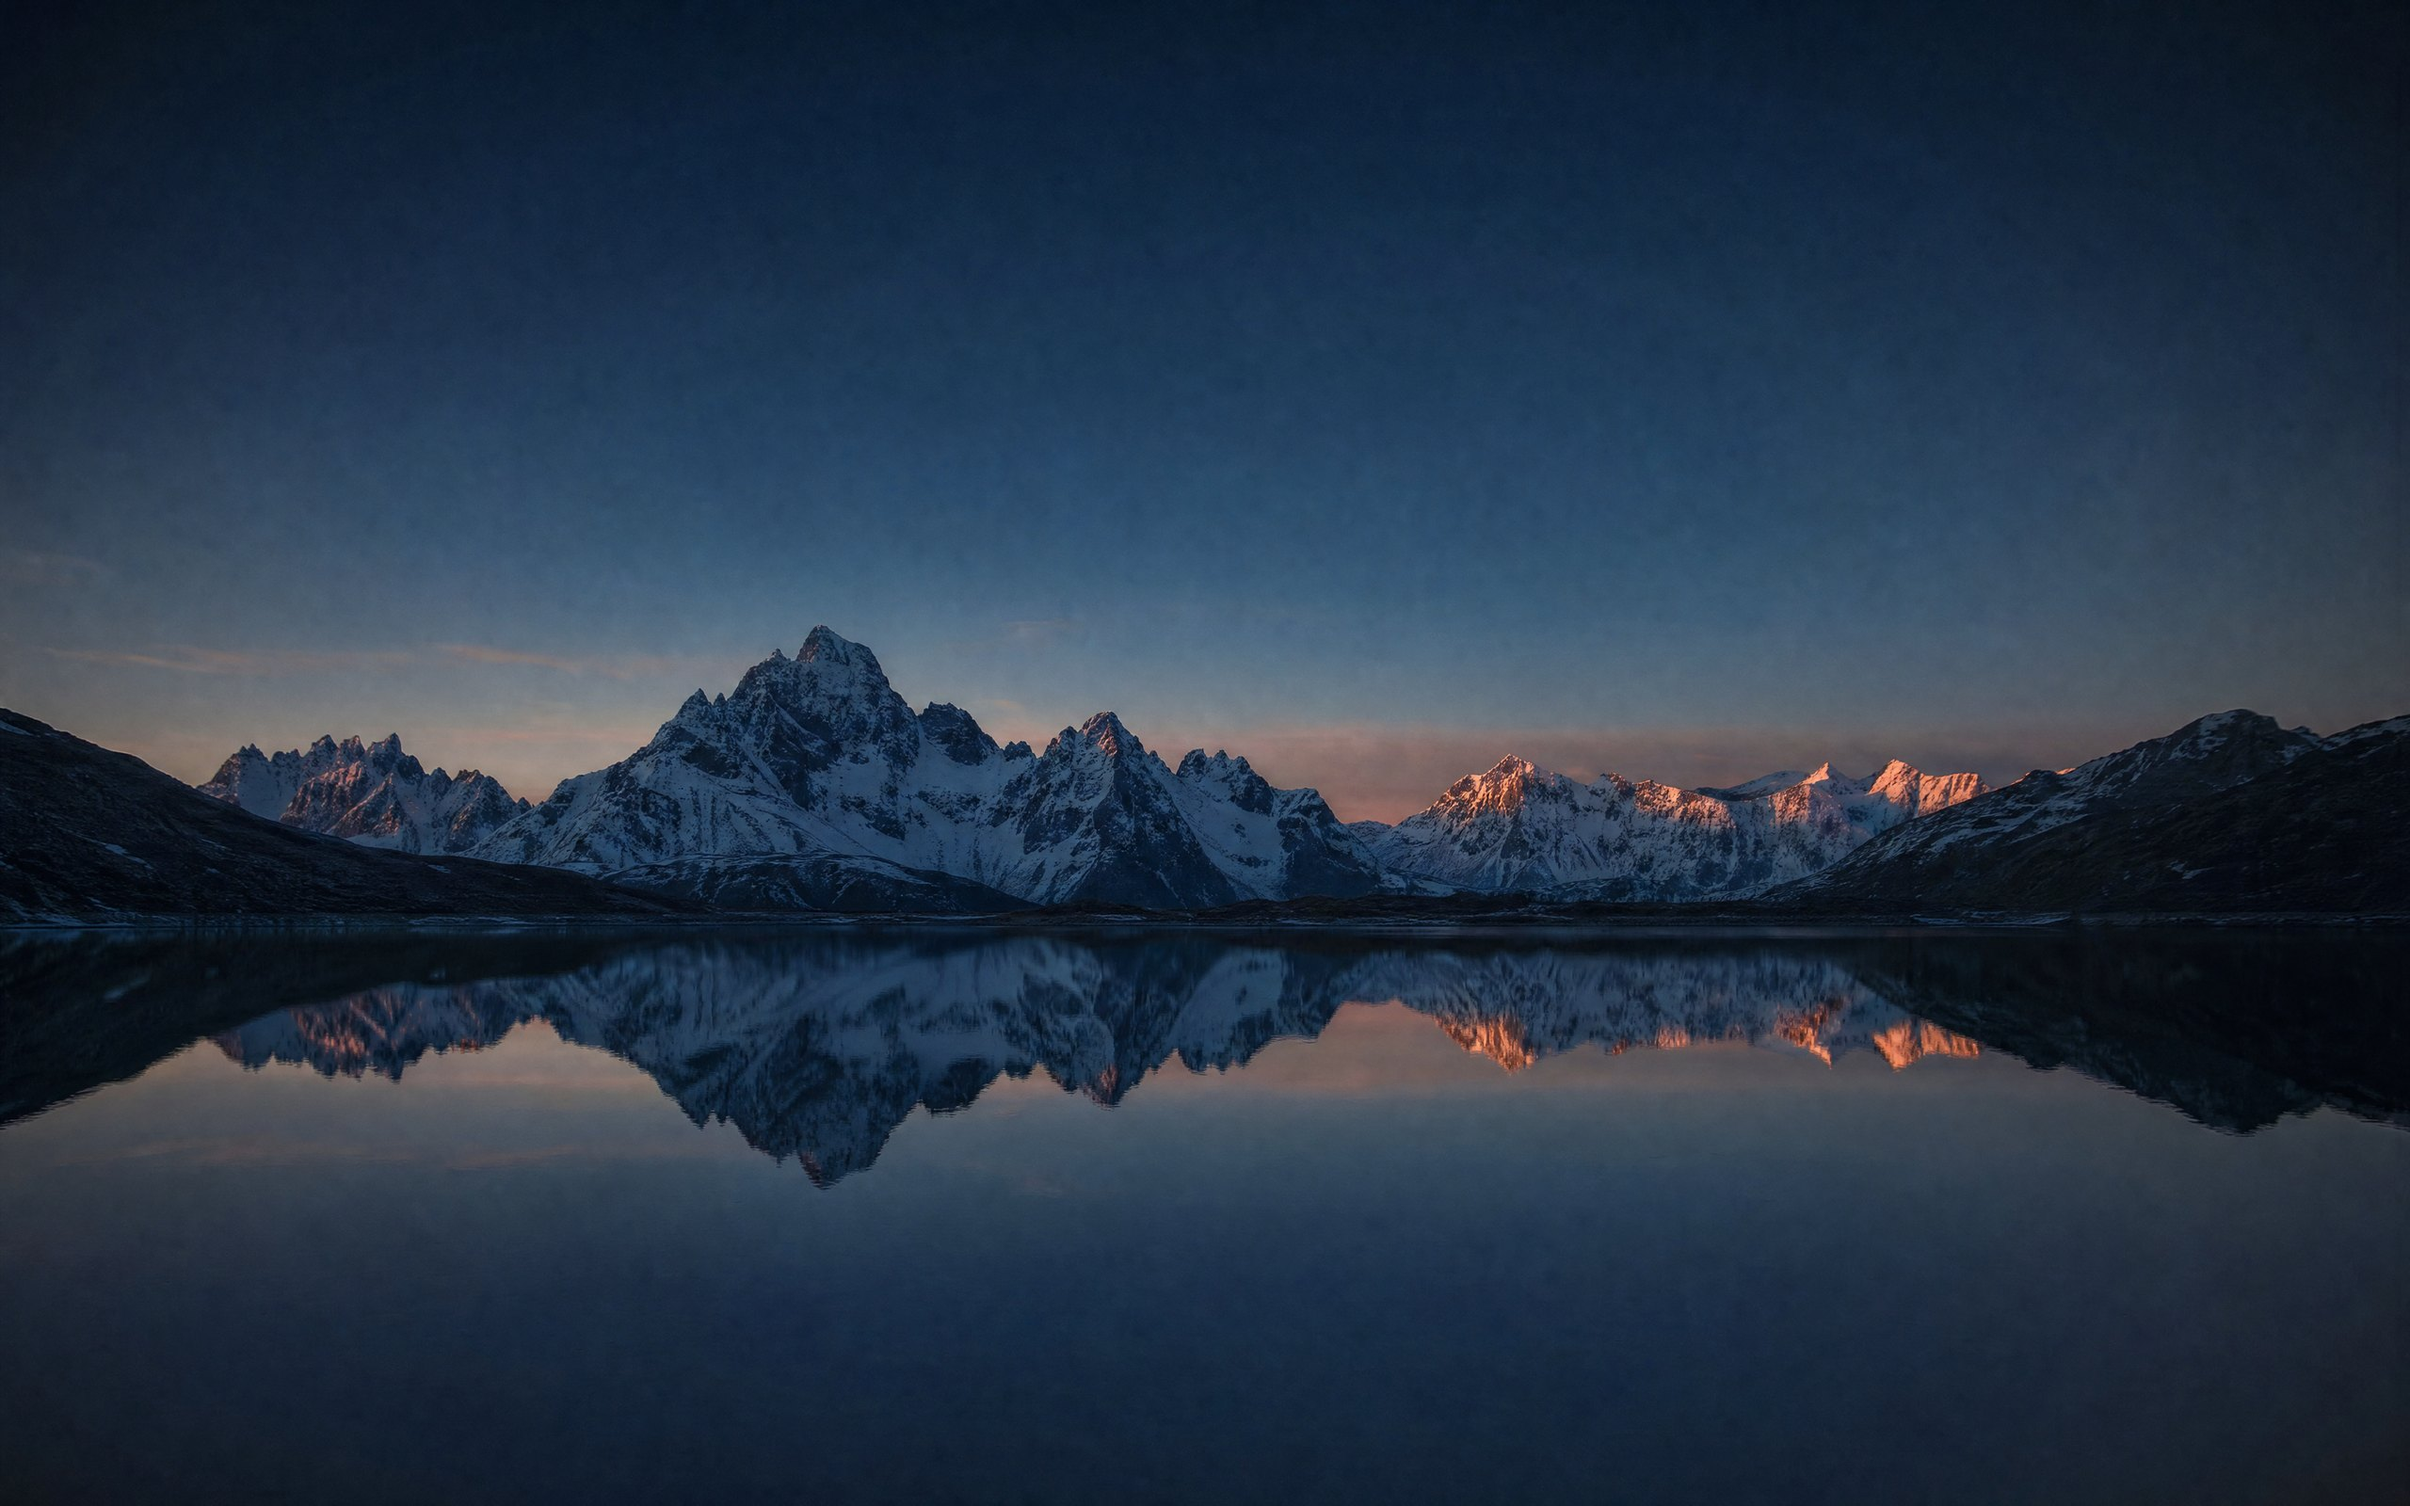
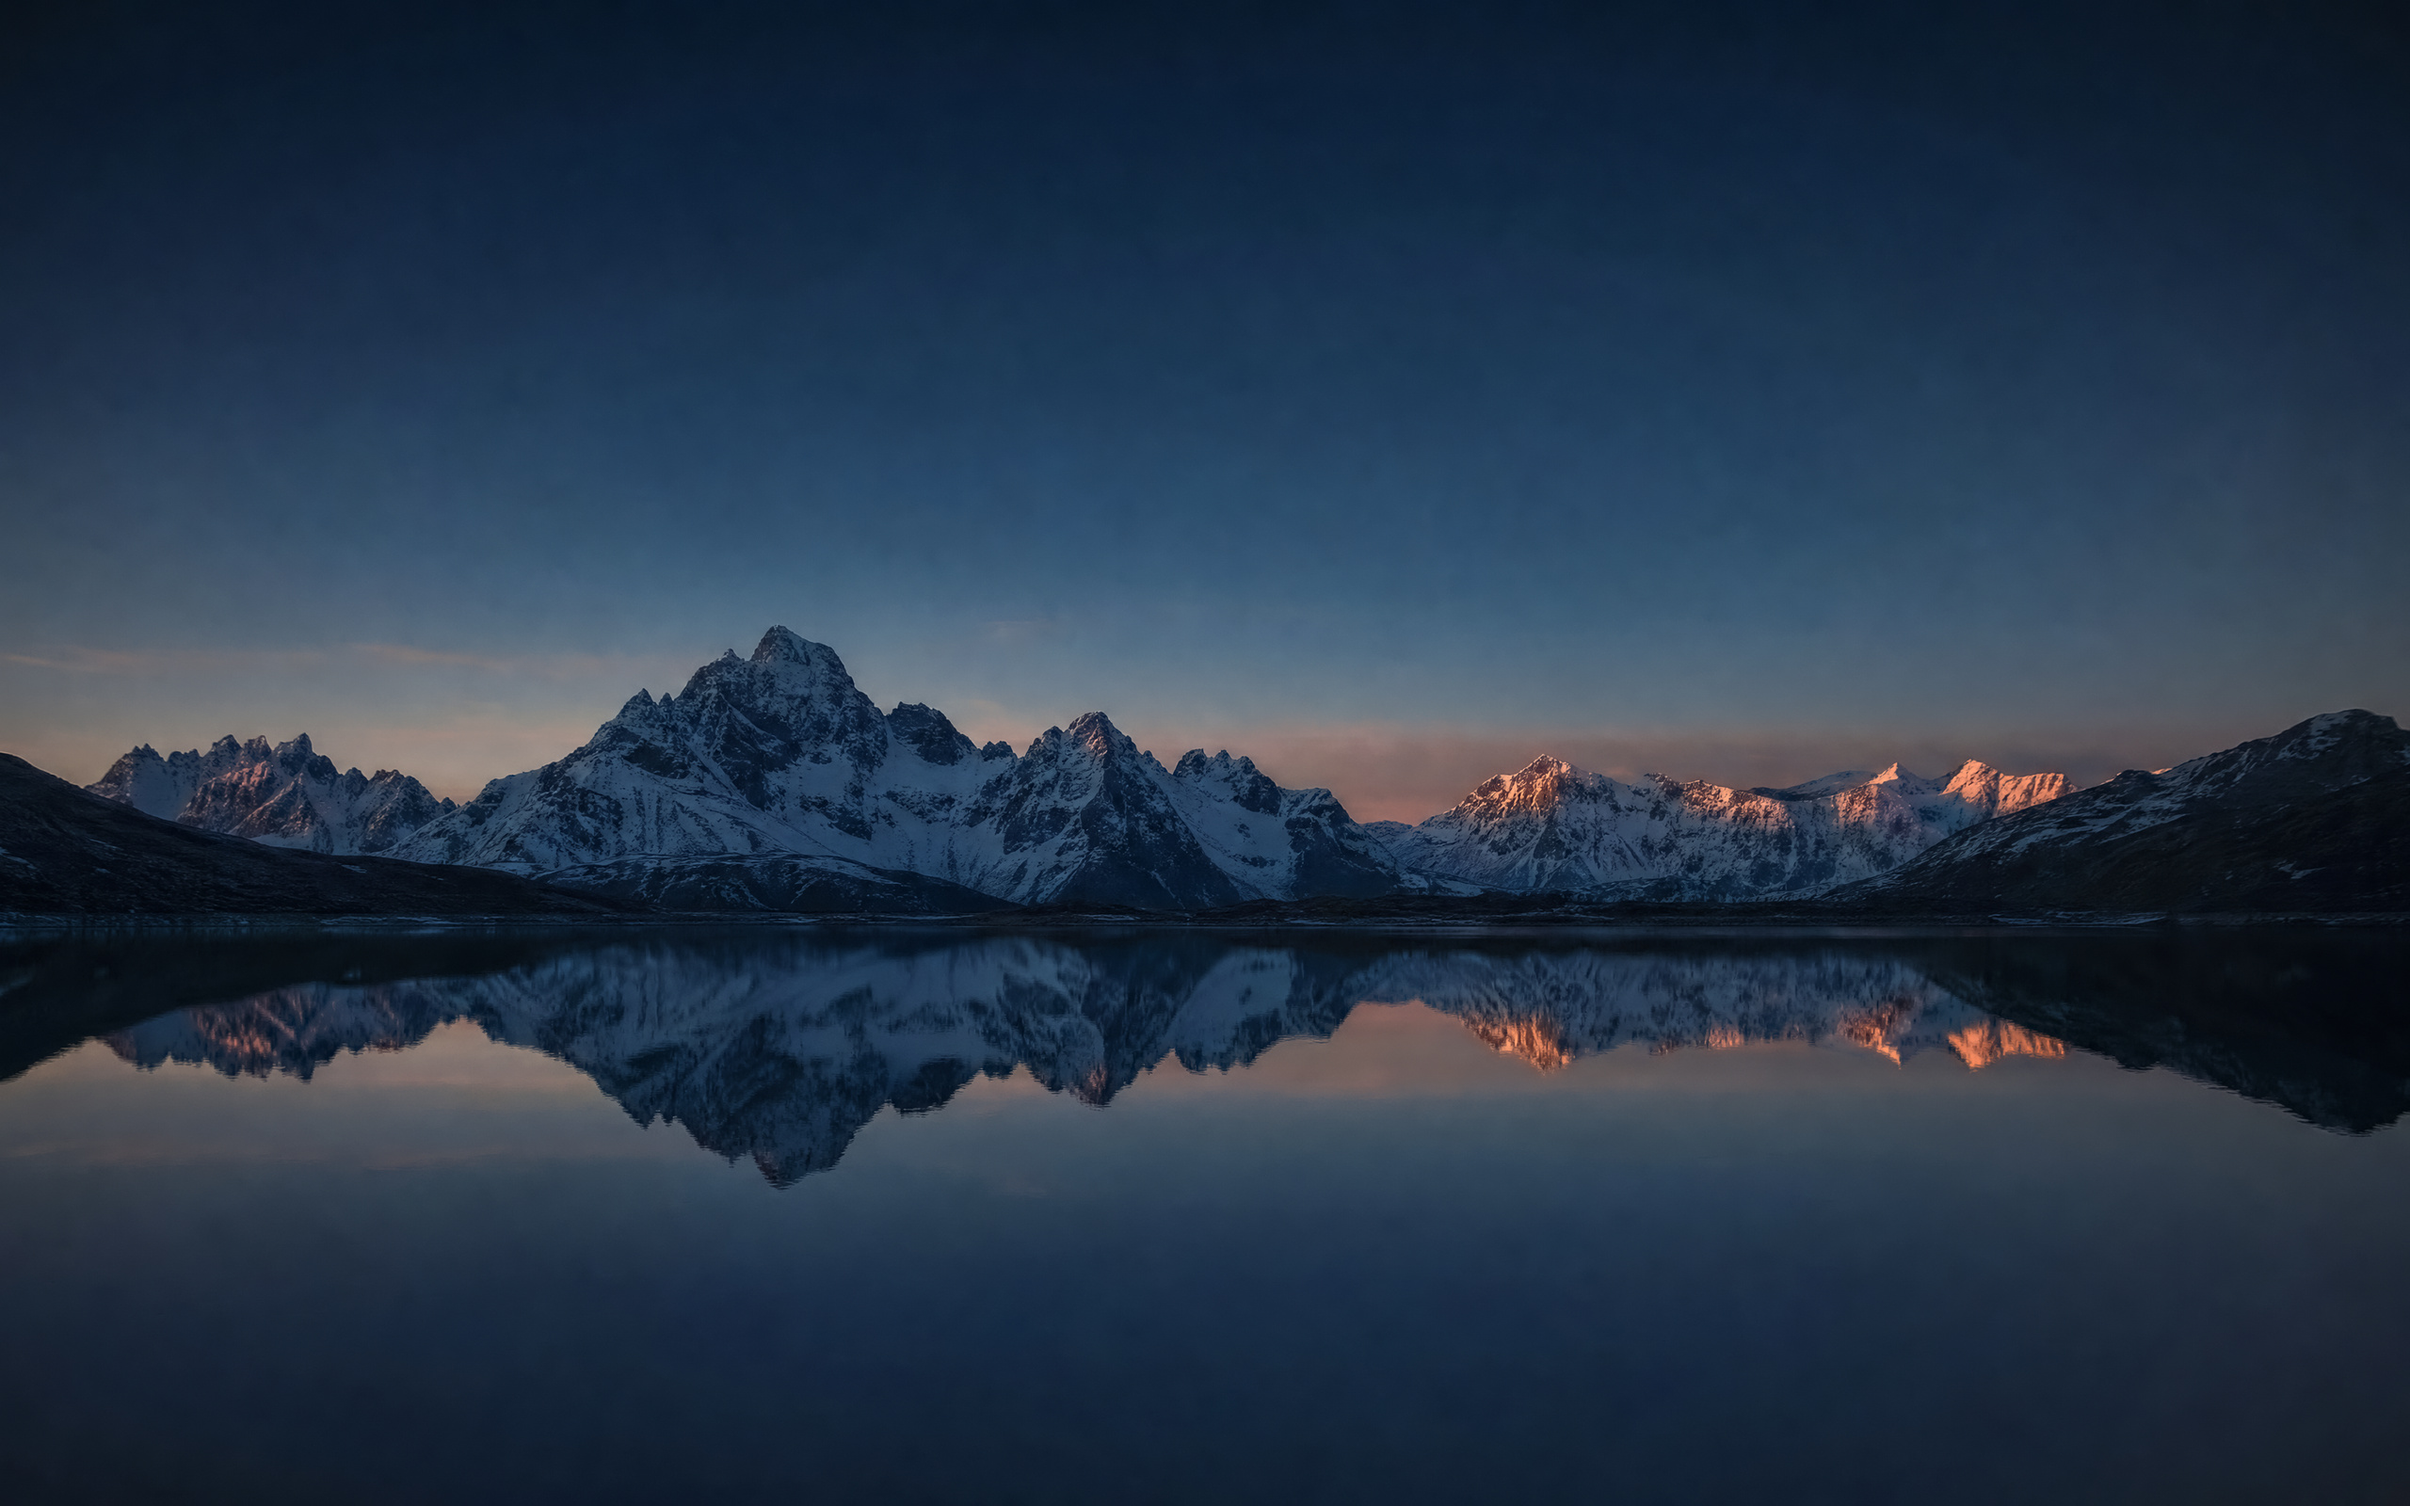
The lake wallpaper is smooth: made from its 4K source without the model's grain

Changed region(s): [[0.0, 0.4062, 0.5312, 0.8125], [0.5312, 0.4688, 1.0, 0.75], [0.0, 0.5938, 0.0625, 0.625]]

diff --git a/scripts/wallpaper-clean.py b/scripts/wallpaper-clean.py
@@ -1,0 +1,75 @@
+#!/usr/bin/env python3
+"""Make a shipped wallpaper and its preview from a large source picture, without the grain.
+
+    scripts/wallpaper-clean.py <source.png> <name>
+
+Writes crates/yantrik-ui-slint/ui/wallpapers/<name>.jpg (2560x1600) and
+crates/yantrik-ui-slint/ui/wallpapers/previews/<name>.png (320x200, which the Settings theme cards
+and the lock screen's blur are made from).
+
+Why: image models draw "film grain" and blotchy noise into smooth skies and water, and a JPEG
+squeezed small makes it worse. The lake shipped that way and read as grainy on every screen. An
+edge-preserving guided filter (He et al.) smooths the flat areas and leaves the ridges sharp; a
++-1 LSB triangular dither then keeps the long gradients from banding without adding visible grain.
+
+Needs Pillow, NumPy and SciPy.
+"""
+import os
+import sys
+
+import numpy as np
+from PIL import Image
+from scipy.ndimage import uniform_filter
+
+ROOT = os.path.join(os.path.dirname(os.path.abspath(__file__)), "..")
+WALLPAPERS = os.path.join(ROOT, "crates", "yantrik-ui-slint", "ui", "wallpapers")
+SIZE = (2560, 1600)
+PREVIEW = (320, 200)
+# Radius in source pixels, and how flat a patch must be to be smoothed: tuned on the lake at
+# 3840x2160, where 12 px and this eps removed the blotches and kept the snow's texture.
+RADIUS = 12
+EPS = 0.01 ** 2
+
+
+def box(x, r):
+    return uniform_filter(x, size=2 * r + 1, mode="reflect")
+
+
+def guided(guide, p, r, eps):
+    mean_i, mean_p = box(guide, r), box(p, r)
+    a = (box(guide * p, r) - mean_i * mean_p) / (box(guide * guide, r) - mean_i * mean_i + eps)
+    b = mean_p - a * mean_i
+    return box(a, r) * guide + box(b, r)
+
+
+def centre_crop(pic, aspect):
+    h, w, _ = pic.shape
+    if w / h > aspect:
+        cw = int(round(h * aspect))
+        x0 = (w - cw) // 2
+        return pic[:, x0:x0 + cw]
+    ch = int(round(w / aspect))
+    y0 = (h - ch) // 2
+    return pic[y0:y0 + ch]
+
+
+def main():
+    if len(sys.argv) != 3:
+        raise SystemExit(__doc__)
+    source, name = sys.argv[1], sys.argv[2]
+    pic = np.asarray(Image.open(source).convert("RGB"), dtype=np.float64) / 255
+    pic = centre_crop(pic, SIZE[0] / SIZE[1])
+    luma = pic @ np.array([0.299, 0.587, 0.114])
+    clean = np.stack([guided(luma, pic[..., c], RADIUS, EPS) for c in range(3)], -1)
+    full = Image.fromarray(np.clip(clean * 255, 0, 255).astype(np.uint8)).resize(SIZE, Image.LANCZOS)
+
+    dithered = np.asarray(full, dtype=np.float64)
+    dithered += np.random.default_rng(7).triangular(-1, 0, 1, dithered.shape)
+    out = Image.fromarray(np.clip(np.rint(dithered), 0, 255).astype(np.uint8))
+    out.save(os.path.join(WALLPAPERS, f"{name}.jpg"), quality=95, subsampling=0, optimize=True, progressive=True)
+    full.resize(PREVIEW, Image.LANCZOS).save(os.path.join(WALLPAPERS, "previews", f"{name}.png"), optimize=True)
+    print(f"wrote {name}.jpg {SIZE[0]}x{SIZE[1]} and previews/{name}.png {PREVIEW[0]}x{PREVIEW[1]}")
+
+
+if __name__ == "__main__":
+    main()

diff --git a/design/renders/README.md b/design/renders/README.md
@@ -12,4 +12,4 @@ Target pictures for the UI overhaul, rendered with GPT image models in the direc
 | `06-alt-tab.jpg` | The Super+Tab overview card | The shell's switcher card (built); Alt+Tab itself is labwc's native switcher, themed |
 | `07-dock-overloaded.jpg` | The dock with many apps and a window list | Dock paging and the window list. Its dock is full width; use 01's centred dock |
 
-The default wallpaper is `crates/yantrik-ui-slint/ui/wallpapers/lake.jpg`. It is an original image generated for Yantrik OS (gpt-image-2, 2 Oct 2026), not a stock photo, so it can ship without third-party licence terms.
+The default wallpaper is `crates/yantrik-ui-slint/ui/wallpapers/lake.jpg`. It is an original image generated for Yantrik OS (gpt-image-2, 2 Oct 2026), not a stock photo, so it can ship without third-party licence terms. Its source render (3840x2160) had model grain in the sky and water, so the shipped file is made from it with `scripts/wallpaper-clean.py <source.png> lake`, which smooths flat areas with an edge-preserving filter, dithers, and writes the 2560x1600 wallpaper and its 320x200 preview together. Make any new wallpaper the same way, from a source at least 3840x2160, and don't ask the image model for "film grain".
